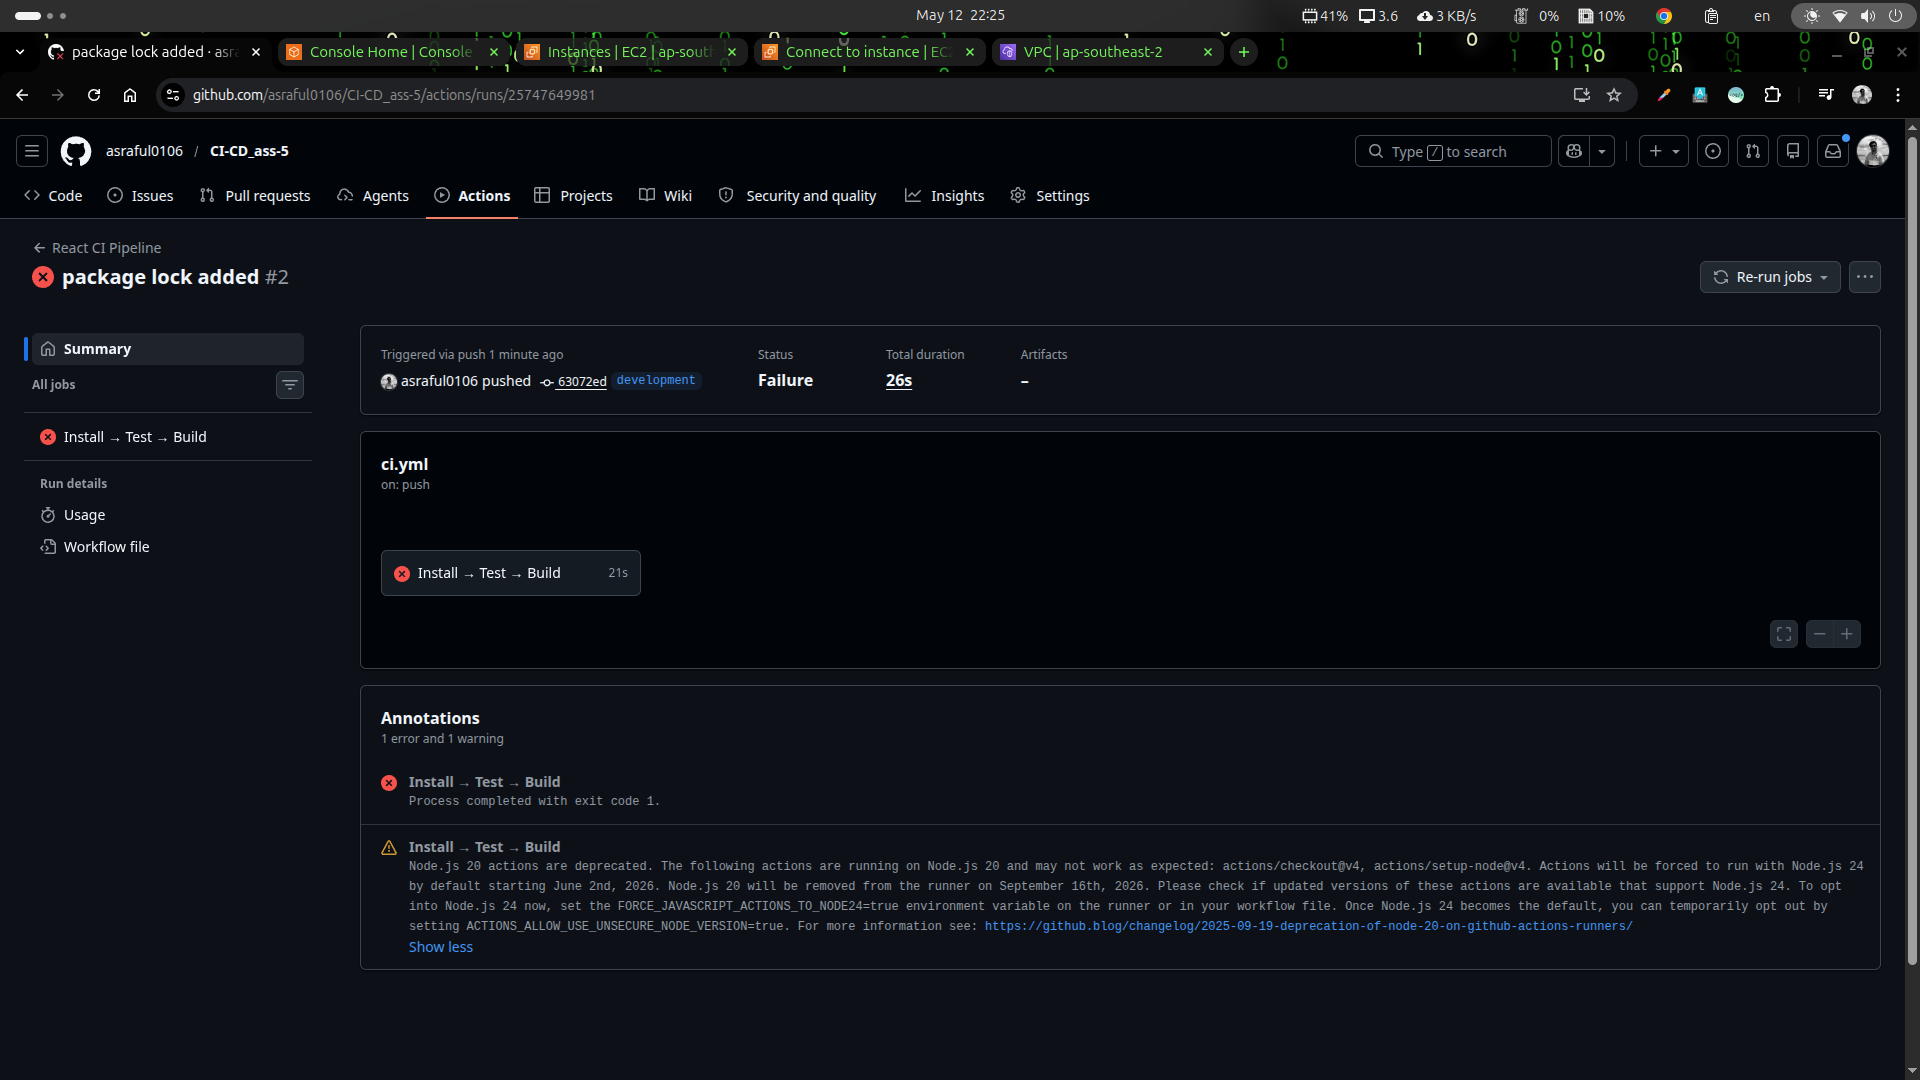
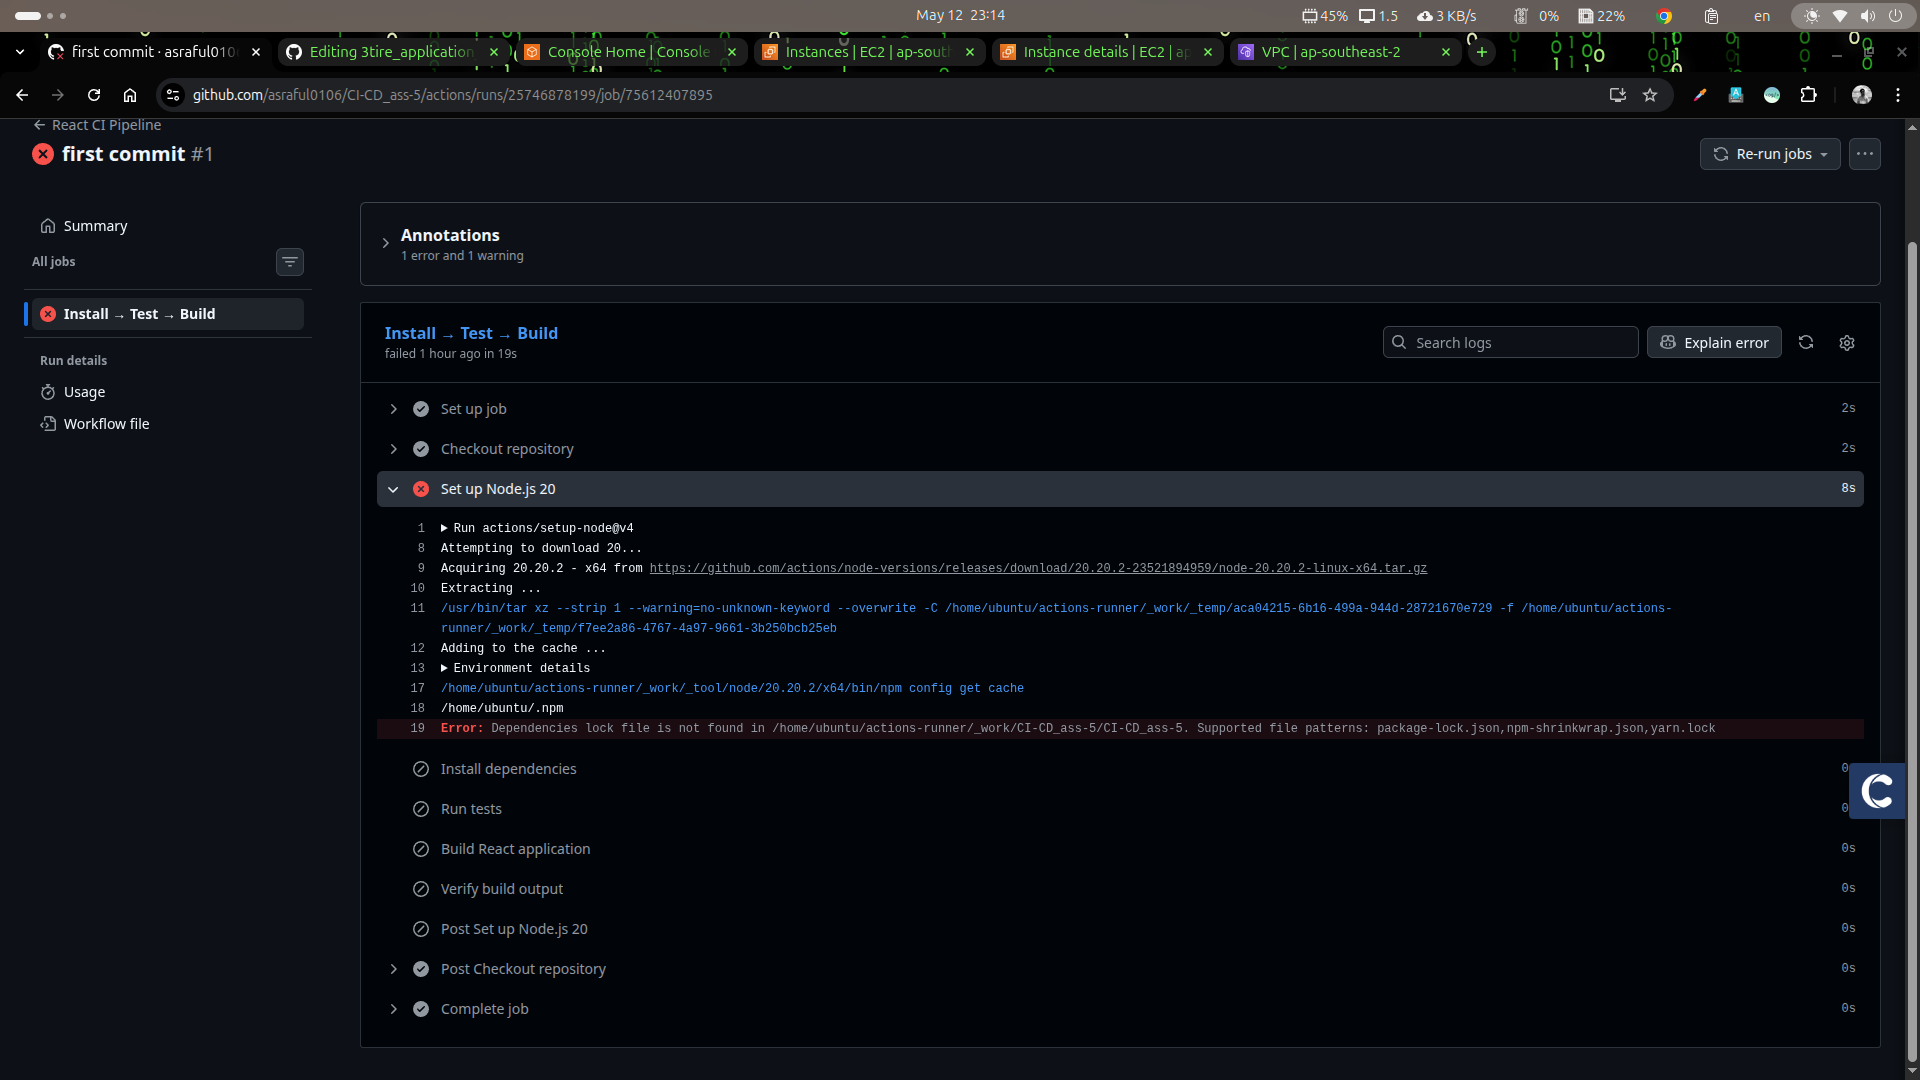
all done!

diff --git a/README.md b/README.md
@@ -11,8 +11,6 @@
 
 **Continuous Deployment** extends CI by automatically releasing validated code to a staging or production environment after the pipeline passes. Together, CI/CD creates a fully automated path from code commit to live deployment.
 
-In this assignment we implement the **CI** portion: automatic testing and building on every push to `development`.
-
 ---
 
 ## GitHub Actions Architecture
@@ -35,7 +33,7 @@ Repository
                     └── steps:                 ← Steps (what to do)
                         ├── Checkout code
                         ├── Set up Node.js
-                        ├── npm ci
+                        ├── npm install (npm ci best for prod)
                         ├── npm test
                         └── npm run build
 ```
@@ -48,7 +46,7 @@ Repository
 | **Trigger (`on:`)** | The event that starts the workflow. | `push` to the `development` branch |
 | **Job** | A group of steps that run on the same machine. Multiple jobs can run in parallel. | `build-and-test` |
 | **Step** | A single task within a job. Either a shell command or a reusable action. | `npm run build` |
-| **Runner** | The machine that executes the steps. Can be GitHub-hosted or self-hosted. | Your own computer (self-hosted) |
+| **Runner** | The machine that executes the steps. Can be GitHub-hosted or self-hosted. | My own computer (self-hosted) |
 | **Action** | A pre-built, reusable step from the GitHub Marketplace. | `actions/checkout@v4` |
 
 ---
@@ -112,7 +110,7 @@ jobs:
   build-and-test:
     name: Install → Test → Build
 
-    # KEY LINE: uses your registered self-hosted runner
+    # KEY LINE: uses my registered self-hosted runner
     # Change to 'ubuntu-latest' to use a GitHub-hosted runner instead
     runs-on: self-hosted
 
@@ -137,7 +135,7 @@ jobs:
       #   - It fails if package-lock.json is out of sync
       #   - It deletes node_modules before installing (clean slate)
       - name: Install dependencies
-        run: npm ci
+        run: npm install
 
       # Step 4: Run the test suite
       # --watchAll=false : don't watch for changes, just run once
@@ -170,17 +168,15 @@ jobs:
 
 ## Setting Up the Self-Hosted Runner
 
-Follow these steps on the machine that will be your runner (your laptop, desktop, or server).
-
 ### Step 1 — Open runner settings in GitHub
 
-In your repository:
+In my repository:
 
 ```
 Settings → Actions → Runners → New self-hosted runner
 ```
 
-Select your operating system (Linux recommended).
+Select operating system.
 
 ### Step 2 — Download the runner application
 
@@ -208,9 +204,9 @@ GitHub provides a unique token. Run the configure command:
   --token MY_UNIQUE_TOKEN_FROM_GITHUB
 ```
 
-During setup you'll be asked:
+During setup I was asked:
 - Runner group: press Enter for default
-- Runner name: press Enter to use your machine's hostname
+- Runner name: press Enter to use my machine's hostname
 - Labels: press Enter for default (`self-hosted`)
 - Work folder: press Enter for `_work`
 
@@ -235,25 +231,24 @@ sudo ./svc.sh status
 
 ### Step 5 — Verify it appears in GitHub
 
-Go back to **Settings → Actions → Runners**. Your machine should appear with a green dot and status **Idle**. It is now ready to pick up jobs.
+Go back to **Settings → Actions → Runners**. My machine should appear with a green dot and status **Idle**. It is now ready to pick up jobs.
 
-> ⚠ **Important:** The runner must be online (service running) whenever you push code. If the runner is offline, the job will queue and wait indefinitely.
+> ⚠ **Important:** The runner must be online (service running) whenever I push the code. If the runner is offline, the job will queue and wait indefinitely.
 
 ---
 
-## 8. Running the Pipeline
+## Running the Pipeline
 
 ### First-time setup
 
 ```bash
 # 1. Clone the repository
-git clone https://github.com/YOUR_USERNAME/YOUR_REPO.git
-cd YOUR_REPO
+git clone https://github.com/MY_USERNAME/MY_REPO.git
+cd my_REPO
 
 # 2. Switch to (or create) the development branch
 git checkout -b development
 
-# 3. Make sure the self-hosted runner is running (see section 7)
 
 # 4. Push to trigger the pipeline
 git add .
@@ -275,16 +270,16 @@ git commit -m "chore: trigger CI pipeline"
 git push origin development
 ```
 
-Then go to **Actions** tab in your GitHub repository to watch the run live.
+Then go to **Actions** tab in my GitHub repository to watch the run live.
 
 ---
 
-## 9. Workflow Execution Process
+## Workflow Execution Process
 
-This section explains exactly what happens from the moment you push code to when the pipeline completes.
+This section explains exactly what happens from the moment I push the code to when the pipeline completes.
 
 ```
-You run: git push origin development
+When run: git push origin development
          │
          ▼
 GitHub detects a 'push' event on the 'development' branch
@@ -296,11 +291,11 @@ GitHub reads .github/workflows/ci.yml
 GitHub queues the 'build-and-test' job
          │
          ▼
-Your self-hosted runner (idle, polling GitHub) picks up the job
+My self-hosted runner (idle, polling GitHub) picks up the job
          │
          ▼
 Runner executes steps in order:
-  [1] actions/checkout@v4  →  Downloads your code into the runner workspace
+  [1] actions/checkout@v4  →  Downloads my code into the runner workspace
   [2] actions/setup-node@v4 →  Installs Node.js 20 (or restores from cache)
   [3] npm ci               →  Installs exact dependencies from package-lock.json
   [4] npm test             →  Runs all *.test.js files; fails if any test fails
@@ -322,12 +317,12 @@ GitHub shows result on:
 - The current step exits with a non-zero code (indicating error).
 - All subsequent steps are **skipped** automatically.
 - The job is marked **failed** (red ✗).
-- GitHub can send you an email notification.
+- GitHub can send me an email notification.
 - The detailed error log is available in the Actions tab.
 
 ---
 
-## 10. Debugging Pipeline Failures
+## Debugging Pipeline Failures
 
 ### Where to find logs
 
@@ -350,11 +345,11 @@ The error message and the exact line that failed are always visible in the expan
 
 **Symptom:** The job shows as "Queued" indefinitely in the Actions tab.
 
-**Cause:** Your self-hosted runner is not running.
+**Cause:** my self-hosted runner is not running.
 
 **Fix:**
 ```bash
-# SSH into your runner machine and start the service
+# SSH into my runner machine and start the service
 cd ~/actions-runner
 ./run.sh
 
@@ -369,7 +364,7 @@ sudo ./svc.sh status
 
 **Symptom:**
 ```
-npm ci can only install packages when your package.json and
+npm ci can only install packages when my package.json and
 package-lock.json are in sync.
 ```
 
@@ -397,7 +392,7 @@ src/App.js
   Line 12:  'useState' is not defined
 ```
 
-**Cause:** A syntax error, missing import, or type error in your source code.
+**Cause:** A syntax error, missing import, or type error in my source code.
 
 **Fix:** Read the error message carefully — it shows file name and line number. Fix locally, verify with `npm run build`, then push.
 
@@ -433,69 +428,32 @@ EACCES: permission denied, mkdir '/home/runner/_work/...'
 # Check the runner's workspace permissions
 ls -la ~/actions-runner/_work/
 
-# Fix ownership (replace 'youruser' with your actual username)
-sudo chown -R youruser:youruser ~/actions-runner/_work/
+# Fix ownership (replace 'myuser' with my actual username)
+sudo chown -R myuser:myuser ~/actions-runner/_work/
 ```
 
 > ⚠ Never run the runner as `root`. It is a security risk.
 
----
-
-### Creating an intentional failure (for the assignment screenshot)
-
-Add this temporary step to your workflow, push it, take the screenshot, then remove it:
-
-```yaml
-- name: Intentional failure — debugging demo
-  run: |
-    echo "This step is about to fail on purpose..."
-    exit 1   # Any non-zero exit code = failure
-```
-
-After screenshotting the failure:
-1. Remove this step from `ci.yml`
-2. Push the fix
-3. Screenshot the successful run
-
----
-
-## 11. Screenshots Guide
-
-You need two screenshots for submission:
 
 ### Screenshot A — Successful pipeline run
-
-1. Push your code to the `development` branch.
-2. Go to **Actions** tab → click the latest run.
-3. Expand the job and all steps.
-4. Screenshot showing all steps with green ✅ checkmarks.
-
-What to capture:
-- The workflow name and run number at the top
-- All six steps expanded and green
-- The final step output showing `build/` directory listing
+Successfull Pipeline | `images/succ_1.png`
+![Screenshot](images/succ_1.png)
 
 ### Screenshot B — Failed pipeline with debug logs
 
-1. Add the intentional failure step (see section 10 above).
-2. Push to `development`.
-3. Go to **Actions** tab → click the failed run.
-4. Click the failed step to expand it.
-5. Screenshot showing the red ✗ icon and the error message in the log.
 
-What to capture:
-- The red ✗ icon on the failed step
-- The actual error text in the log panel
-- The "skipped" steps after the failure point
+Failed Pipeline | `images/err_1.png`
+![Screenshot](images/err_1.png)
 
----
+Failed Pipeline With Log | `images/err_2.png`
+![Screenshot](images/err_2.png)
 
 ## Quick Reference Commands
 
 ```bash
 # Clone and set up
-git clone https://github.com/YOUR_USERNAME/YOUR_REPO.git
-cd YOUR_REPO
+git clone https://github.com/MY_USERNAME/MY_REPO.git
+cd MY_REPO
 git checkout -b development
 
 # Install dependencies locally
@@ -509,7 +467,7 @@ npm run build
 
 # Push to trigger CI pipeline
 git add .
-git commit -m "your message"
+git commit -m "my message"
 git push origin development
 
 # Start self-hosted runner (one-time)
